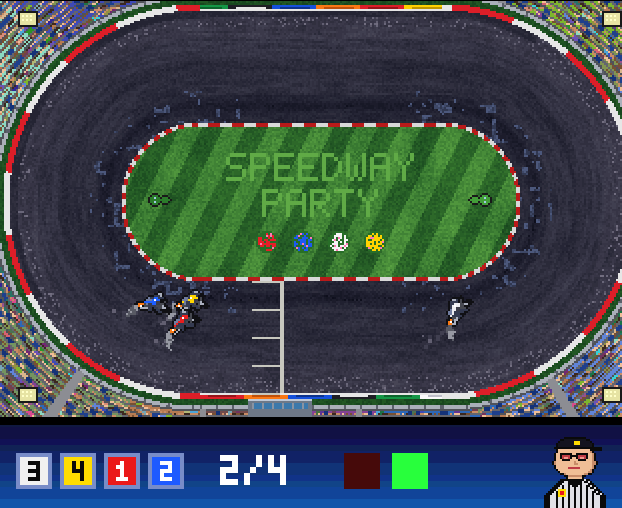
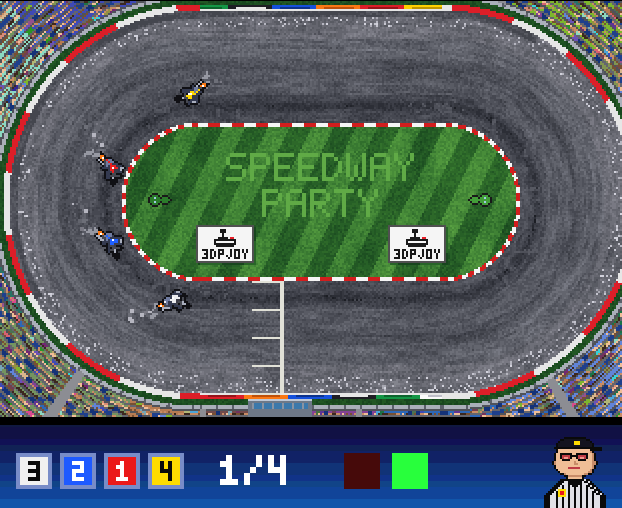
README: nowe zrzuty z WinUAE, aktualne opisy, lista samych brakow

diff --git a/README.md b/README.md
@@ -5,15 +5,15 @@ Zręcznościowa gra żużlowa na **Amigę 1200 (AGA, 68EC020, 2 MB Chip RAM)**. 
 | ![Bieg w WinUAE](art/winuae_race.png) | ![Plansza tytułowa w WinUAE](art/winuae_title.png) |
 |---|---|
 
-*Gra uruchomiona w WinUAE (A1200, 68020, AGA, 2 MB Chip): bieg ze szprycą spod tylnego koła i plansza tytułowa z tęczą z Coppera.*
+*Gra uruchomiona w WinUAE (A1200, 68020, AGA, 2 MB Chip): bieg ze szprycą spod tylnych kół i plansza tytułowa z tęczą z Coppera.*
 
 Więcej ekranów (zrzuty z kodu gry skompilowanego na PC):
 
 | | | |
 |---|---|---|
-| ![Tytuł](art/screen_01_title.png) | ![Start spod taśmy](art/screen_04_gate_red.png) | ![Taśma!](art/screen_06_false_start.png) |
-| ![Program zawodów](art/screen_03_table.png) | ![Przerwa na tor](art/screen_08_grading.png) | ![Podium](art/screen_10_podium.png) |
-| ![Wyjeżdżone ścieżki po 3 biegach](art/screen_13_sciezki.png) | ![Wyniki biegu](art/screen_07_result.png) | ![Awaria maszyny startowej](art/screen_16_awaria.png) |
+| ![Ustawienia](art/screen_02_setup.png) | ![Program zawodów i tabela](art/screen_03_table.png) | ![Start spod taśmy](art/screen_04_gate_red.png) |
+| ![Taśma!](art/screen_06_false_start.png) | ![Wyniki biegu](art/screen_07_result.png) | ![Przerwa na tor](art/screen_08_grading.png) |
+| ![Wyjeżdżone ścieżki po 3 biegach](art/screen_13_sciezki.png) | ![Awaria maszyny startowej](art/screen_16_awaria.png) | ![Podium](art/screen_10_podium.png) |
 
 
 ## Pobierz i zagraj
@@ -48,6 +48,8 @@ Na koniec przychodzą **biegi nominowane**. Lider tabeli wybiera pole pierwszy, 
 
 Remis punktowy o miejsce na podium rozstrzyga **bieg dodatkowy**: jadą tylko zawodnicy z remisu, a pola startowe są losowane. Nie ma liczenia zwycięstw ani kombinowania, decyduje tor.
 
+Przed turniejem w ustawieniach wybierasz liczbę graczy (0–4), poziom botów, stan toru i muzykę. Zawodnicy startują jako GRACZ 1, GRACZ 2… i CPU 2, CPU 3…, a każdą nazwę możesz zmienić. Po każdym biegu tabela pokazuje punkty z każdego biegu i rekordy toru.
+
 Puste miejsca przy kanapie zajmują boty:
 - **Nowicjusz** zaspał pod taśmą, łamie motocykl za mocno i trzyma się krawężnika jak tonący brzytwy.
 - **Profesjonalista** ma refleks i nie zawaha się „zamknąć płotu”, gdy próbujesz go minąć po wewnętrznej.
@@ -60,7 +62,7 @@ Zielone, brzęczyk, **puszczasz**. Kto puści szybciej, ten wystrzeli spod taśm
 
 Kto nie wytrzyma nerwowo i puści za wcześnie, usłyszy gwizdek: **TAŚMA!** Sędzia macha czerwoną flagą, a druga taśma w biegu oznacza wykluczenie. Kto z kolei przegapi zielone, będzie mielił kołem w miejscu, patrząc na plecy rywali.
 
-W prawym dolnym rogu ekranu, w małym okienku, widzisz maszynę startową: taśmę i lampkę. Na zielonym taśma płynnie odlatuje w górę, a okienko znika zaraz po ruszeniu.
+W prawym dolnym rogu ekranu, w małym okienku, widzisz maszynę startową: lampkę i taśmę z dwóch wstęg połączonych cienkimi tasiemkami. Na zielonym taśma płynnie odlatuje w górę, a okienko znika zaraz po ruszeniu.
 
 Raz na jakiś czas maszyna startowa odmawia posłuszeństwa: światła gasną, taśma znika, a sędzia startuje bieg **flagą narodową**. Trzeba wtedy patrzeć na jego rękę.
 
@@ -95,7 +97,7 @@ To tam rodzi się najpiękniejszy manewr: **„szeroka niesie”**. Jeśli wjedz
 
 Tor **wyjeżdża się na Twoich oczach**. Każdy przejazd rozpędzonego motocykla ubija nawierzchnię, więc linia, którą jeździ cała stawka, z biegu na bieg ciemnieje, gładnieje, trzyma coraz lepiej i robi się najszybsza. Grudki szprycy spadające obok spulchniają tor, a równarka podczas przerwy zaciera ścieżki i wszystko zaczyna się od nowa. Po polewaniu wyjeżdżona linia przesycha pierwsza. Pytanie tylko, czy wolisz jechać sprawdzoną ścieżką za rywalem, prosto w jego szprycę, czy szukać własnej drogi.
 
-Zawody odbywają się na klasycznym owalu z ciemnoszarą nawierzchnią z **bakałaru**.
+Zawody odbywają się na klasycznym owalu z ciemnoszarą nawierzchnią z **bakałaru**. Na murawie stoją banery sponsora (3DPJOY).
 
 ### 💧 Polewaczka, czyli tor zmienia się w trakcie zawodów
 Na start turnieju **stan toru jest losowany**: suchy, wilgotny albo mokry. Jeśli wolisz inny, zmienisz go w menu.
@@ -190,6 +192,7 @@ Przy **0 graczach** cały turniej jadą boty: to tryb pokazowy.
 | Menu samo się przełącza | mysz w porcie 0: menu czyta tylko port 1 i klawiaturę, ale gracz 2 ustawiony na JOY 0 będzie „jechał” myszą |
 | Zamiast grafiki są proste kształty | brak `data/` obok programu (gra wtedy rysuje grafikę zastępczą) |
 | Brak dźwięku | brak `data/*.raw` |
+| Brak muzyki w menu | `MUSIC = BRAK` w `build.cfg`, brak `data/music.raw` albo opcja MUZYKA: NIE w ustawieniach |
 | Gracze 3–4 na adapterze LPT nie reagują | bity adaptera w `src/input.c`, oznaczone „sprawdzić” |
 
 ---
@@ -226,8 +229,9 @@ Wymagają Pythona 3 z `numpy`, a sprawdzanie kodu i symulator także `pip instal
 | `python tools/sim/plot.py` | tory jazdy z symulacji na tle toru, zapis do `art/sim_lines.png` |
 | `sh tools/shots/run.sh` | zrzuty ekranu z prawdziwego kodu gry (UI, HUD, duszki, szpryca, traktory) skompilowanego na PC, zapis do `art/screen_*.png` |
 | `python tools/import_engine.py plik.wav` | robi pętlę silnika dla Pauli z prawdziwego nagrania |
+| `python tools/mksocial.py` | miniaturka do podglądu linków na GitHubie, `art/social_preview.png` (1280×640) |
 
-Tabela torów jest zapisana w dwóch miejscach: `track_defs` w `src/track.c` i `PRESETS` w `tools/genart.py`. Kolejność i geometria (`HALF_L, R_IN, R_OUT`) muszą być identyczne.
+Geometria toru jest zapisana w dwóch miejscach: `track_defs` w `src/track.c` i `PRESETS` w `tools/genart.py`. Wartości (`HALF_L, R_IN, R_OUT`) muszą być identyczne.
 
 ---
 
@@ -238,7 +242,7 @@ src/
   main.c        pętla 50 Hz, maszyna stanów turnieju
   system.c      przejęcie i oddanie sprzętu, własne przerwanie VBL
   video.c       Copper-listy AGA: 8 bitplanów, paleta 24-bit, kolory per linia, HUD, podwójny bufor
-  sprites.c     duszki 64 px (pary attached), klatki motocykli
+  sprites.c     duszki 32 px (pary attached), klatki motocykli
   blit.c        Blitter: wypełnianie, kopiowanie, kropki „cookie-cut” (szpryca)
   start.c       procedura startowa, taśma, refleks
   race.c        model jazdy: auto-gaz, uślizg, banda, kontakt, okrążenia
@@ -252,6 +256,10 @@ src/
   audio.c       Paula: silniki, kibice, brzęczyk, gwizdek, muzyka w menu
   input.c       joysticki, adapter LPT, klawiatura (CIA)
   assets.c      ładowanie data/ przed przejęciem sprzętu
+  records.c     rekordy toru zapisywane na dysk (records.dat)
+  music/        utwory do menu (gotowe miksy *_s8.raw), wybór w build.cfg
+  banners/      logo na banery (źródło SVG)
+build.cfg       ustawienia budowania (wybór muzyki)
 data/           gotowe dane binarne (generowane narzędziami)
 art/            podglądy PNG/WAV (nie trafiają na Amigę)
 tools/          generatory, sprawdzanie kodu, symulator
@@ -262,7 +270,7 @@ tools/          generatory, sprawdzanie kodu, symulator
 ## Znane ograniczenia / do zrobienia
 
 ### Stan
-- Gra kompiluje się Bebbo GCC 6.5.0b bez ostrzeżeń i działa w WinUAE (A1200, 68020 cycle-exact, AGA, 2 MB Chip RAM, ROM AROS) przy stałych 50 FPS: plansza tytułowa, menu, turniej, biegi, polewanie, dźwięk i muzyka w menu.
+- Gra kompiluje się Bebbo GCC 6.5.0b bez ostrzeżeń i działa w WinUAE (A1200, 68020 cycle-exact, AGA, 2 MB Chip RAM, ROM AROS) w 50 FPS: plansza tytułowa, menu, turniej, biegi, polewanie, dźwięk i muzyka w menu. Pojedyncze klatki gubią się jeszcze przy wejściu na bieg, przed startem.
 - **Nie była jeszcze testowana na prawdziwym A1200 ani z oryginalnym Kickstartem 3.1.** Zgłoszenia z prawdziwego sprzętu są bardzo mile widziane.
 - Logikę (fizykę, boty, turniej) sprawdza symulator na PC (`make sim`). Prawdziwi gracze dopiero ocenią, jak sterowanie dwoma przyciskami czuje się w rękach, i parametry jazdy mogą się jeszcze zmienić.
 - Gra zajmuje ok. 1,2–1,4 MB Chip RAM (tor, motocykle, traktory, plansza tytułowa, dźwięk i muzyka: 208 KiB „Black Motor” albo 428 KiB „Night Grid”), więc potrzebuje A1200 z 2 MB Chip. Na Amidze z Fast RAM muzyka ląduje w Fast RAM.
@@ -276,15 +284,14 @@ tools/          generatory, sprawdzanie kodu, symulator
 - **Boty** jeżdżą głównie wewnętrzną połową toru. Szeroka linia pod bandą to szansa dla ludzi.
 - Tylko **PAL** (50 Hz).
 
-### Pomysły na dalsze wersje
-- [ ] obraz dyskietki **ADF** do Gotka i emulatorów
-- [x] widoczne wyjeżdżone ścieżki (tor ciemnieje tam, gdzie jeździ stawka)
-- [x] bieg dodatkowy przy remisie o miejsce na podium
-- [x] tabela rekordów (najlepsze czasy biegu i okrążenia na każdym torze) zapisywana na dysk
-- [ ] tryb treningu: pojedynczy bieg albo jazda na czas
-- [x] muzyka w menu na planszy tytułowej i w ustawieniach (opcja MUZYKA: TAK/NIE), utwór wybierany w `build.cfg`
-- [ ] więcej torów i stadionów
-- [ ] prawdziwe nagranie silnika żużlowego (z licencją)
+### Do zrobienia
+- obraz dyskietki **ADF** do Gotka i emulatorów
+- tryb treningu: pojedynczy bieg albo jazda na czas
+- więcej torów i stadionów
+- prawdziwe nagranie silnika żużlowego (z licencją)
+- test na prawdziwym A1200 i z oryginalnym Kickstartem 3.1
+- usunięcie zgubionych klatek przy wejściu na bieg
+- sprawdzenie zapisu rekordów toru (`records.dat`) na Amidze
 
 ---
 
